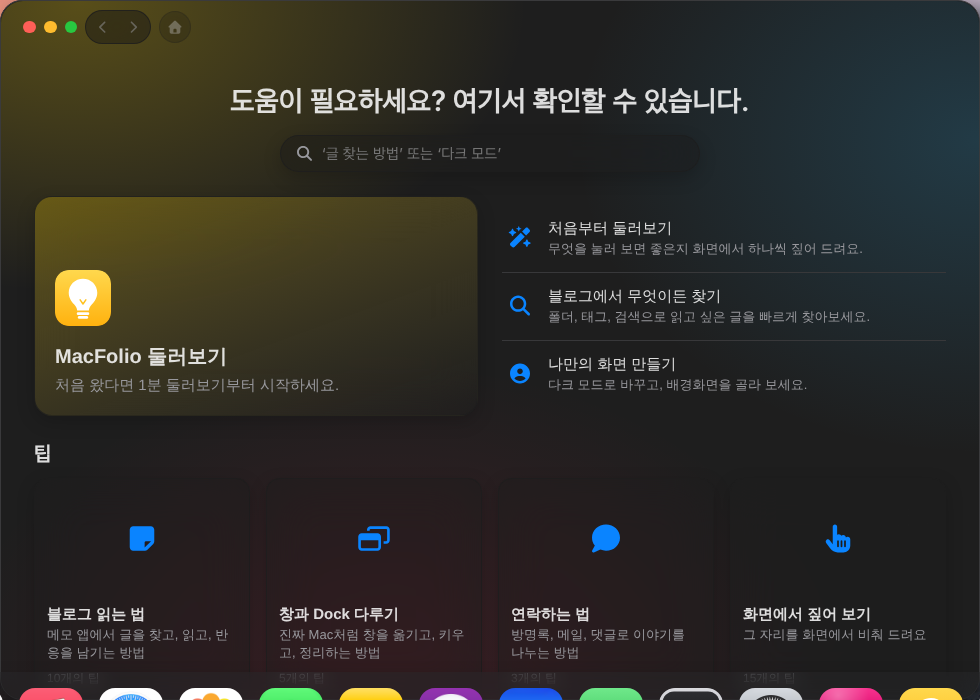
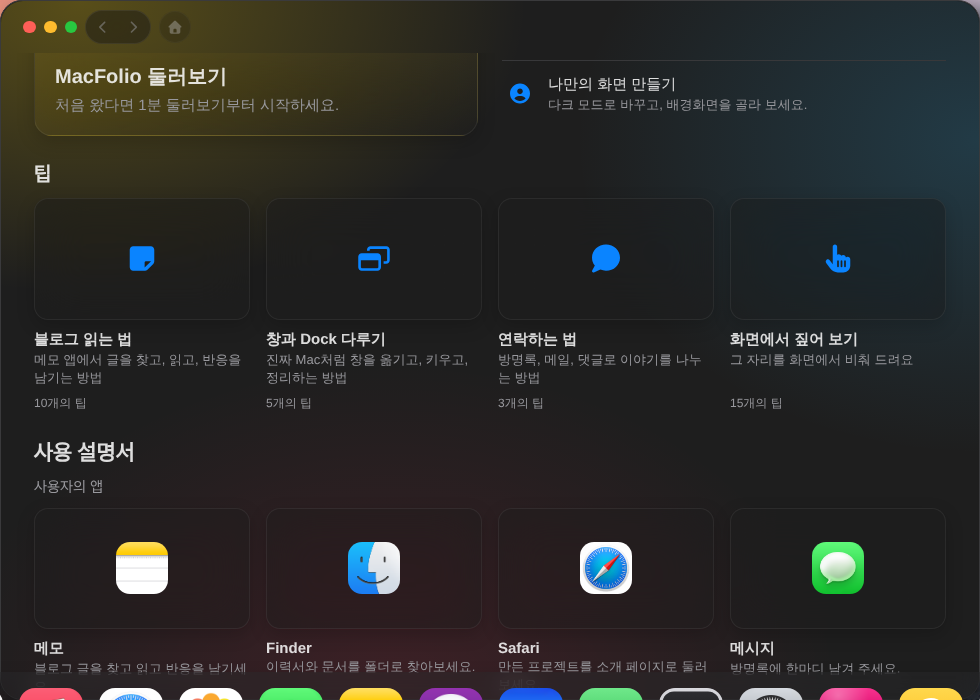
style(tips): 홈 카드는 그림 칸만, 제목·설명은 카드 밖 아래로

diff --git a/apps/react/src/apps/tips/Tips.css b/apps/react/src/apps/tips/Tips.css
@@ -316,33 +316,32 @@
 	gap: var(--space-2);
 	width: 100%;
 	height: 100%;
-	padding: 0 0 var(--space-12);
-	overflow: hidden;
-	border: 1px solid var(--tips-glass-edge);
-	border-radius: var(--radius-14);
-	background-color: var(--tips-glass);
-	backdrop-filter: var(--tips-glass-blur);
-	box-shadow: var(--shadow-card);
+	padding: 0;
+	border: 0;
+	background: none;
 	color: inherit;
 	text-align: left;
 	cursor: pointer;
 }
 
-.tips-card:hover {
-	background-color: var(--tips-glass-strong);
-}
-
-.tips-card > :not(.tips-card-art) {
-	padding-inline: var(--space-12);
-}
-
+/* 카드는 그림 칸만: 제목·설명은 카드 밖 아래에 (macOS 팁 앱처럼) */
 .tips-card-art {
 	display: grid;
-	margin-bottom: var(--space-4);
+	margin-bottom: var(--space-8);
+	border: 1px solid var(--tips-glass-edge);
+	border-radius: var(--radius-14);
+	background-color: var(--tips-glass);
+	backdrop-filter: var(--tips-glass-blur);
+	box-shadow: var(--shadow-card);
 	color: var(--color-control-accent);
 	font-size: var(--text-title1);
 	aspect-ratio: 16 / 9;
 	place-items: center;
+	transition: background-color 0.15s ease;
+}
+
+.tips-card:hover .tips-card-art {
+	background-color: var(--tips-glass-strong);
 }
 
 .tips-card-art img {
